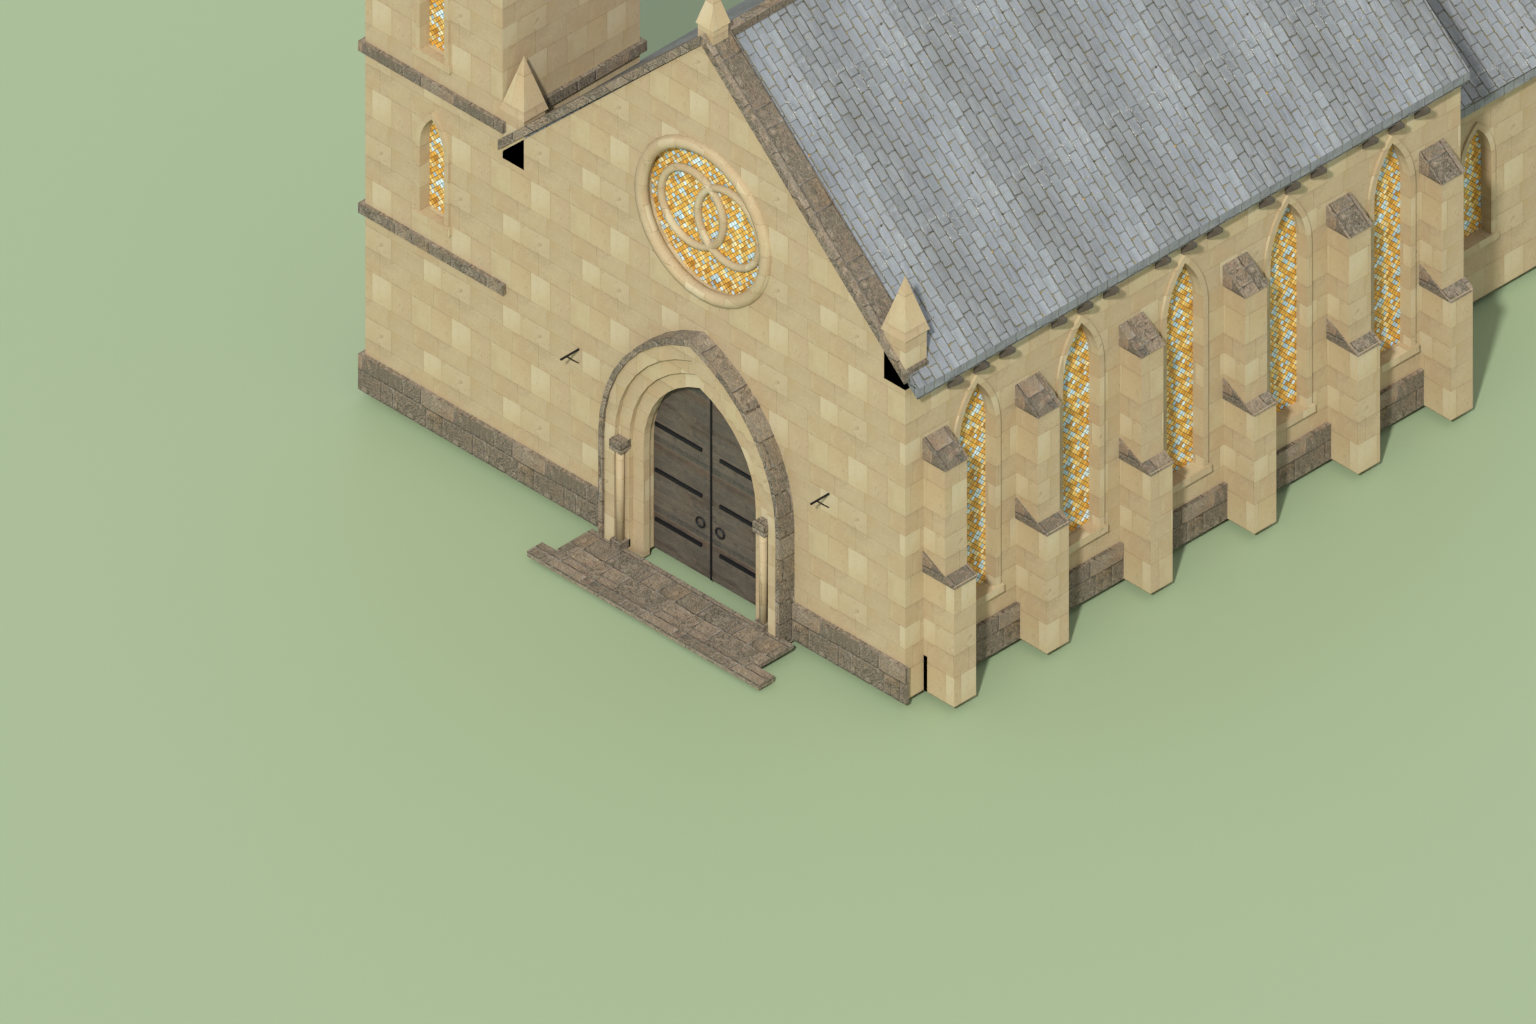
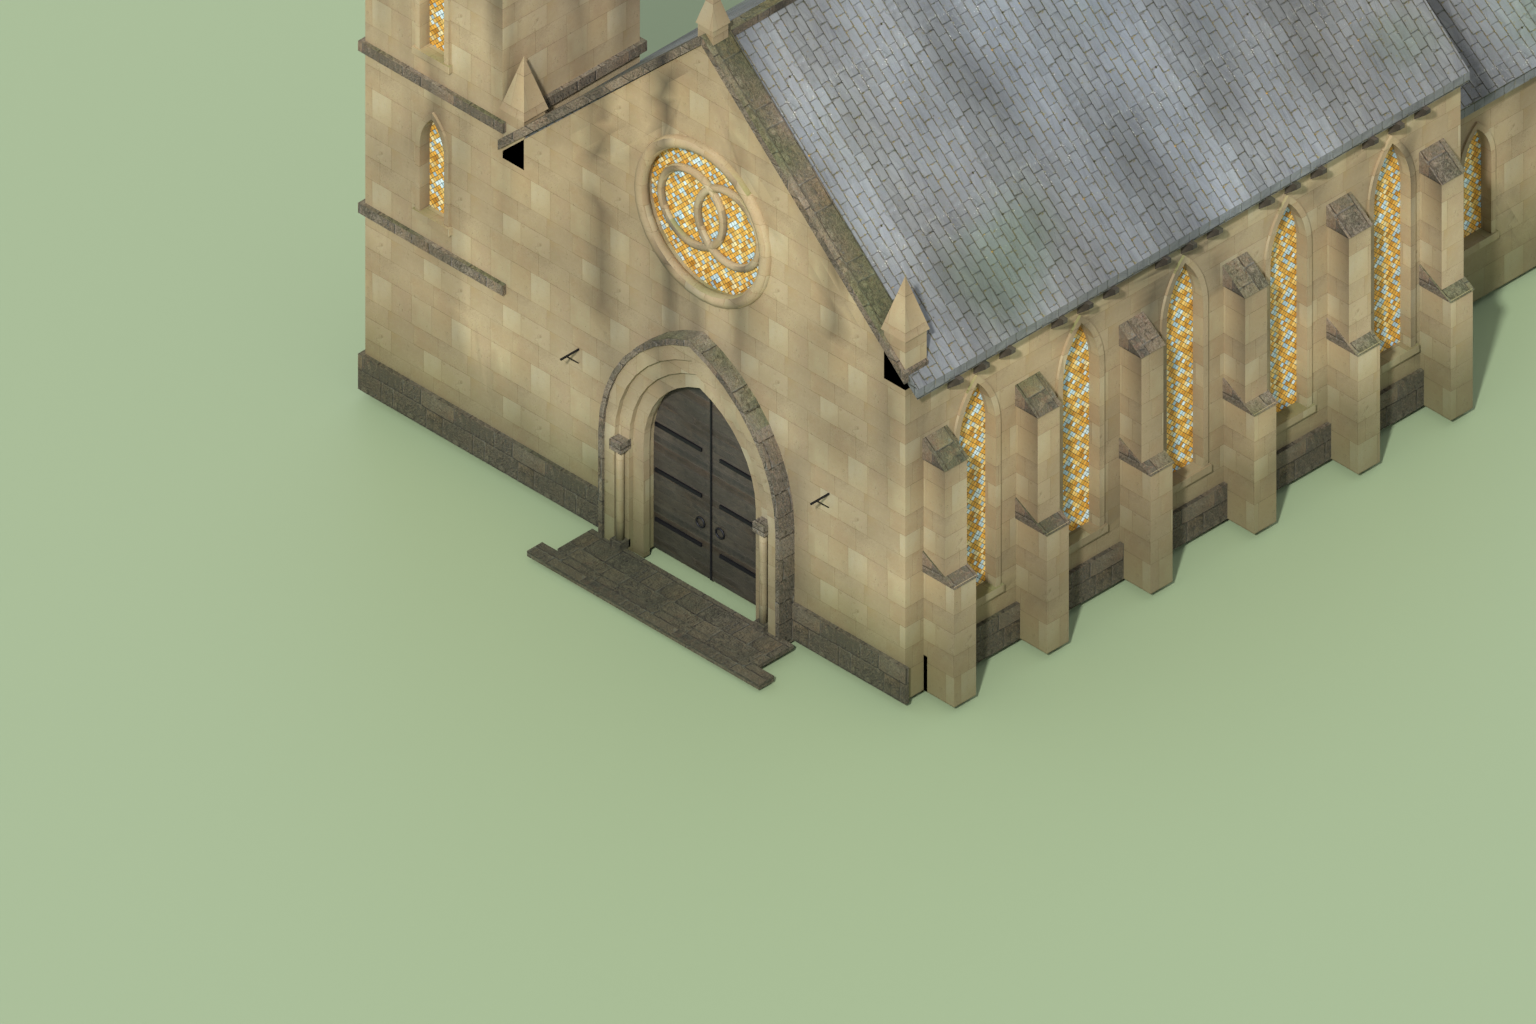
Weather the union hall with vertex colours

Changed region(s): [[0.2188, 0.0, 1.0, 0.6875], [0.625, 0.0625, 0.6562, 0.125], [0.2188, 0.0, 0.25, 0.0312]]

diff --git a/doc/assets/environment.md b/doc/assets/environment.md
@@ -94,7 +94,7 @@ white-cloud.jpg도 같은 폴더의 원본(5964px)을 2048px q85로 줄인 것.
 - 원화: [union-hall-concept-v2.png](../images/props/union-hall-concept-v2.png), 1536×1024 PNG. 가문 합병 의식용 건물이며 사용자 확정 2026-11-11. OpenAI Codex built-in ImageGen, **ChatGPT Pro 20x**, 생성 2026-11-11. 외부 참조 이미지 없이 생성했으며 OpenAI 생성 출력물 이용 조건 적용. 밝은 석회암 벽, 슬레이트 박공지붕, 버트레스 5구간, 4단 석조 종탑. 장미창과 첨탑 끝의 맞물린 두 고리는 두 가문의 결합을 뜻한다. 목표 크기는 폭 12m·깊이 22m·처마 9m·용마루 15m·종탑 26m. [프롬프트·해시](../../assets/props/union-hall/concept-source-v2.json).
 - 분리 구성: 텐트와 같은 `perimeter`·`cutaway` 방식. 실내에서 남는 후면부는 바닥·먼 쪽 긴 벽 안쪽 면·제단부 끝벽, 숨는 전면부는 지붕·정면 박공·가까운 쪽 긴 벽이다. 좌석·제단·깃발은 별도 오브젝트로 둔다.
 - 후면부 원화: [union-hall-back-concept-v1.png](../images/props/union-hall-back-concept-v1.png), 1536×1024 PNG. v2 원화를 참조로 붙여 같은 내장 ImageGen·**ChatGPT Pro 20x**로 생성, 같은 이용 조건. 전면부는 v2 외관을 디자인으로 쓴다. [프롬프트·해시·파트 구성](../../assets/props/union-hall/split-concepts-v1.json).
-- 직접 모델링(2026-11-11, 사용자 결정; v2 2026-11-12): Tripo 대신 Blender 5.2 Python 형상에 타일링 재질을 입혔다. 생성형 3D 도구는 쓰지 않았다. 본당 12×17m·처마 9m·용마루 15m, 제단부 8×5m, 종탑 4.5m 각·첨탑 끝 26m, 정문 폭 3.8m·높이 5.7m. 삼각형 14,146개(`hall_back` 5,040·`hall_front` 6,456·`hall_tower` 2,650), GLB 1,253,848바이트. v2에서 창틀·창대, 3겹 정문 아치와 기둥, 처마 받침, 박공 덮개돌, 제단부 옆창을 더하고 깃발 걸이와 첨탑을 가늘게 했다. 재질은 기존 하우징의 Poly Haven CC0 텍스처(marble_01·medieval_blocks_03·grey_roof_tiles_02·dark_wooden_planks)와 직접 만든 납틀 유리 텍스처다. marble_01·grey_roof_tiles_02는 ORM의 금속 채널이 0.5라 고정 거칠기·금속 0으로 바꿨다. 렌더: [외관](../images/props/union-hall-model/exterior.png)·[기본 확대 실내](../images/props/union-hall-model/game-zoom1-indoors.png)·[기본 확대 정문](../images/props/union-hall-model/game-zoom1-portal.png). [소스·해시·남은 문제](../../assets/props/union-hall/model/sources.json).
+- 직접 모델링(2026-11-11, 사용자 결정; v2·v3 2026-11-12): Tripo 대신 Blender 5.2 Python 형상에 타일링 재질을 입혔다. 생성형 3D 도구는 쓰지 않았다. 본당 12×17m·처마 9m·용마루 15m, 제단부 8×5m, 종탑 4.5m 각·첨탑 끝 26m, 정문 폭 3.8m·높이 5.7m. 삼각형 45,812개(`hall_back` 16,578·`hall_front` 21,134·`hall_tower` 8,100), GLB 2,581,036바이트. v2에서 창틀·창대, 3겹 정문 아치와 기둥, 처마 받침, 박공 덮개돌, 제단부 옆창을 더하고 깃발 걸이와 첨탑을 가늘게 했다. v3에서 풍화를 정점 색(COLOR_0)으로 넣었다: 큰 얼룩, 지면 근처 습기와 이끼, 처마 아래 빗물 자국, 지붕 얼룩. 색을 담으려고 석재·지붕 면을 약 1.1m 간격으로 나눠 삼각형이 늘었다. Blender 5.2 glTF 내보내기가 여러 재질 메시의 첫 프리미티브에만 COLOR_0을 써서, 파트마다 빈 노드 아래 재질별 메시로 나눠 내보낸다. 재질은 기존 하우징의 Poly Haven CC0 텍스처(marble_01·medieval_blocks_03·grey_roof_tiles_02·dark_wooden_planks)와 직접 만든 납틀 유리 텍스처다. marble_01·grey_roof_tiles_02는 ORM의 금속 채널이 0.5라 고정 거칠기·금속 0으로 바꿨다. 렌더: [외관](../images/props/union-hall-model/exterior.png)·[기본 확대 실내](../images/props/union-hall-model/game-zoom1-indoors.png)·[기본 확대 정문](../images/props/union-hall-model/game-zoom1-portal.png). [소스·해시·남은 문제](../../assets/props/union-hall/model/sources.json).
 - 배치 제약: 입구는 서향(회전 270) 전용이며 남향으로 놓으려면 좌우를 뒤집은 모델이 필요하다. `perimeter`가 평평한 직사각형 하나라 본당 12×17m만 걸을 수 있고 제단부는 배경이다. 노드는 `hall_back`·`hall_tower`(실내 유지)와 `hall_front`(숨김)이다.
 - 설치 상태(2026-11-11): `client/public/models/objects/union_hall.glb`(로컬, HF·`assets.lock` 미등록), `object_catalog.json`의 `union_hall`(foundation 23×30m, perimeter 12×17×9m·입구 3.8m, cutaway `hall_front`). 개발 월드 가구점 옆에 배치해 재질과 실내 숨김을 확인했다. 벽 충돌은 서버 재시작 뒤 정상이고 프레임 저하는 없었다. 종탑·제단부·버트레스에는 충돌이 없다.
 
